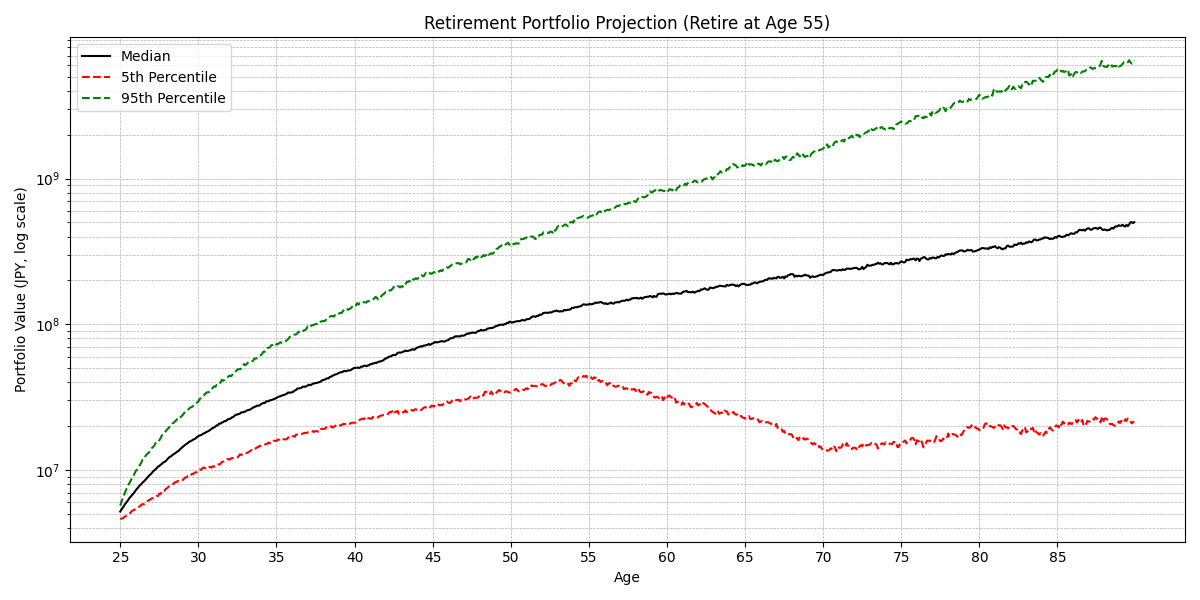
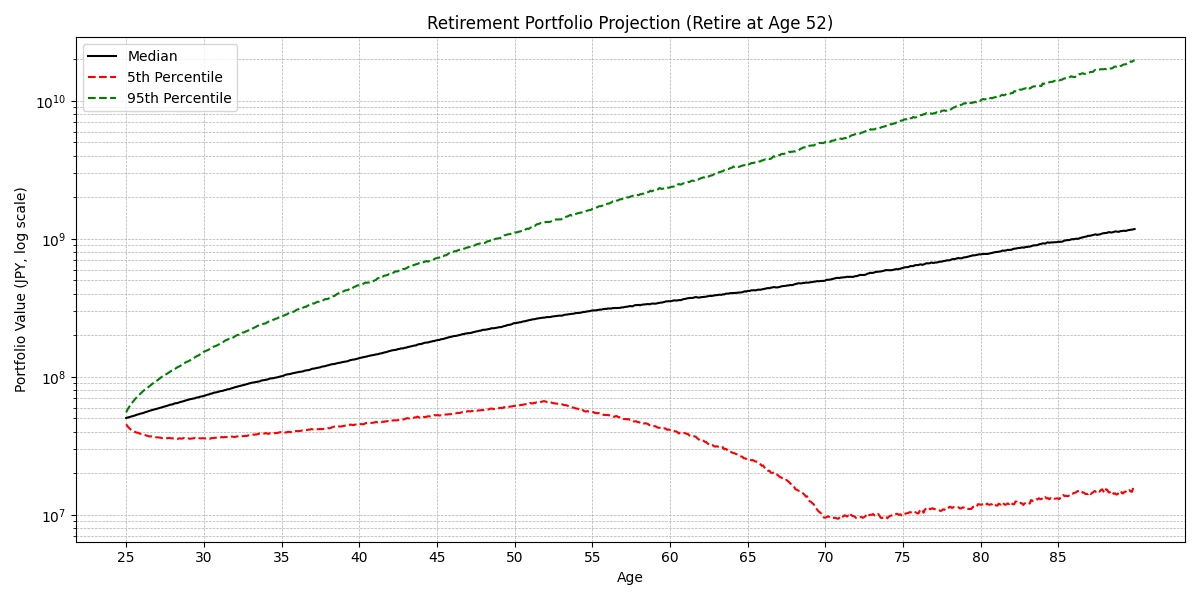
update?

Changed region(s): [[0.0308, 0.03, 0.9867, 0.93], [0.4933, 0.96, 0.555, 0.99]]

diff --git a/simulation2.py b/simulation2.py
@@ -2,7 +2,7 @@ import numpy as np
 
 # 基本設定
 monthly_investment = 150000  # 毎月の積立額（円）
-initial_asset = 5000000  # 初期資産（円）
+initial_asset = 50000000  # 初期資産（円）
 mean_return_annual = 0.0678
 volatility_annual = 0.2081
 simulations = 10000
@@ -10,6 +10,7 @@ simulations = 10000
 initial_age = 25
 end_age = 90
 monthly_withdrawal = 300000
+monthly_pension_from_70 = 300000
 target_final_asset = 10000000
 confidence_level = 0.95
 
@@ -40,7 +41,7 @@ def simulate_retirement_with_pension(work_years, simulations):
             else:
                 withdrawal = monthly_withdrawal
                 if m >= pension_start_month:
-                    withdrawal -= 200000 
+                    withdrawal -= monthly_pension_from_70
                 withdrawal = max(withdrawal, 0)
 
                 if not cash_mode and value >= (withdrawal * (total_months - m)):
@@ -64,7 +65,7 @@ def simulate_retirement_with_pension(work_years, simulations):
 def find_min_work_years_with_pension(min_years, max_years):
     while min_years < max_years:
         mid = (min_years + max_years) // 2
-        prob = simulate_retirement_with_pension(mid)
+        prob = simulate_retirement_with_pension(mid, simulations)
         if prob >= confidence_level:
             max_years = mid
         else:
@@ -87,11 +88,13 @@ def simulate_retirement_path_with_pension(work_years, simulations=1000):
     pension_start_month = (70 - initial_age) * 12
 
     results = np.zeros((simulations, total_months))
+    cash_switch_ages = []  # ← 追加：現金モードに切り替えた年齢
 
     for i in range(simulations):
-        value = 5_000_000
+        value = initial_asset
         cash_mode = False
         path = []
+        switch_age = None
 
         for m in range(total_months):
             monthly_return = np.random.normal(mean_return_monthly, volatility_monthly)
@@ -102,11 +105,12 @@ def simulate_retirement_path_with_pension(work_years, simulations=1000):
             else:
                 withdrawal = monthly_withdrawal
                 if m >= pension_start_month:
-                    withdrawal -= 200000
+                    withdrawal -= monthly_pension_from_70
                 withdrawal = max(withdrawal, 0)
 
                 if not cash_mode and value >= (withdrawal * (total_months - m)):
                     cash_mode = True
+                    switch_age = initial_age + m // 12  # ← 年齢として記録
 
                 value -= withdrawal if value > 0 else 0
                 value = max(value, 0)
@@ -114,29 +118,30 @@ def simulate_retirement_path_with_pension(work_years, simulations=1000):
             path.append(value)
 
         results[i] = path
+        cash_switch_ages.append(switch_age if switch_age is not None else np.nan)
 
-    return results
+    return results, cash_switch_ages
 
-# グラフ用のシミュレーション（1000回程度）
-path_results = simulate_retirement_path_with_pension(min_work_years_with_pension, simulations=1000)
+# 実行
+path_results, cash_switch_ages = simulate_retirement_path_with_pension(min_work_years_with_pension, simulations=simulations)
 
-# パーセンタイル計算
+# パーセンタイル計算と年齢軸
 median = np.percentile(path_results, 50, axis=0)
-p5 = np.percentile(path_results, 5, axis=0)
+p_low_num = int((1-confidence_level)*100)
+p_low = np.percentile(path_results, p_low_num, axis=0)
 p95 = np.percentile(path_results, 95, axis=0)
 
-# 年齢ベースのx軸ラベル作成
 months = np.arange(path_results.shape[1])
 ages = initial_age + months // 12
-xticks_idx = np.arange(0, len(ages), 12 * 5)  # 5年ごとに表示
+xticks_idx = np.arange(0, len(ages), 12 * 5)
 
 # グラフ描画
 plt.figure(figsize=(12, 6))
 plt.plot(median, label='Median', color='black')
-plt.plot(p5, label='5th Percentile', linestyle='--', color='red')
+plt.plot(p_low, label=str(p_low_num)+'th Percentile', linestyle='--', color='red')
 plt.plot(p95, label='95th Percentile', linestyle='--', color='green')
-plt.yscale('log')  # 対数スケールで成長を可視化
-plt.xticks(ticks=xticks_idx, labels=ages[xticks_idx])  # 年齢をX軸に
+plt.yscale('log')
+plt.xticks(ticks=xticks_idx, labels=ages[xticks_idx])
 plt.title(f'Retirement Portfolio Projection (Retire at Age {retirement_age_with_pension})')
 plt.xlabel('Age')
 plt.ylabel('Portfolio Value (JPY, log scale)')
@@ -144,4 +149,14 @@ plt.legend()
 plt.grid(True, which='both', linestyle='--', linewidth=0.5)
 plt.tight_layout()
 plt.savefig('retirement_projection_logscale_age.png')
-print("📊 グラフ 'retirement_projection_logscale_age.png' を保存しました（対数スケール＆年齢軸）。")
+print("📊 グラフ 'retirement_projection_logscale_age.png' を保存しました。")
+
+# 現金モードへの切替年齢の統計情報
+cash_switch_ages = np.array(cash_switch_ages)
+valid_switch_ages = cash_switch_ages[~np.isnan(cash_switch_ages)]
+
+print("\n💬 現金モードに切り替えた年齢の統計:")
+print(f"  平均年齢: {np.mean(valid_switch_ages):.2f} 歳")
+print(f"  中央年齢: {np.median(valid_switch_ages):.2f} 歳")
+print(f"  最小年齢: {np.min(valid_switch_ages):.0f} 歳")
+print(f"  最大年齢: {np.max(valid_switch_ages):.0f} 歳")

diff --git a/simulation.py b/simulation.py
@@ -10,7 +10,7 @@ years = 30
 months = years * 12
 mean_return_annual = 0.0678
 volatility_annual = 0.2081
-simulations = 1000
+simulations = 10000
 
 initial_age = 25
 end_age = 90
